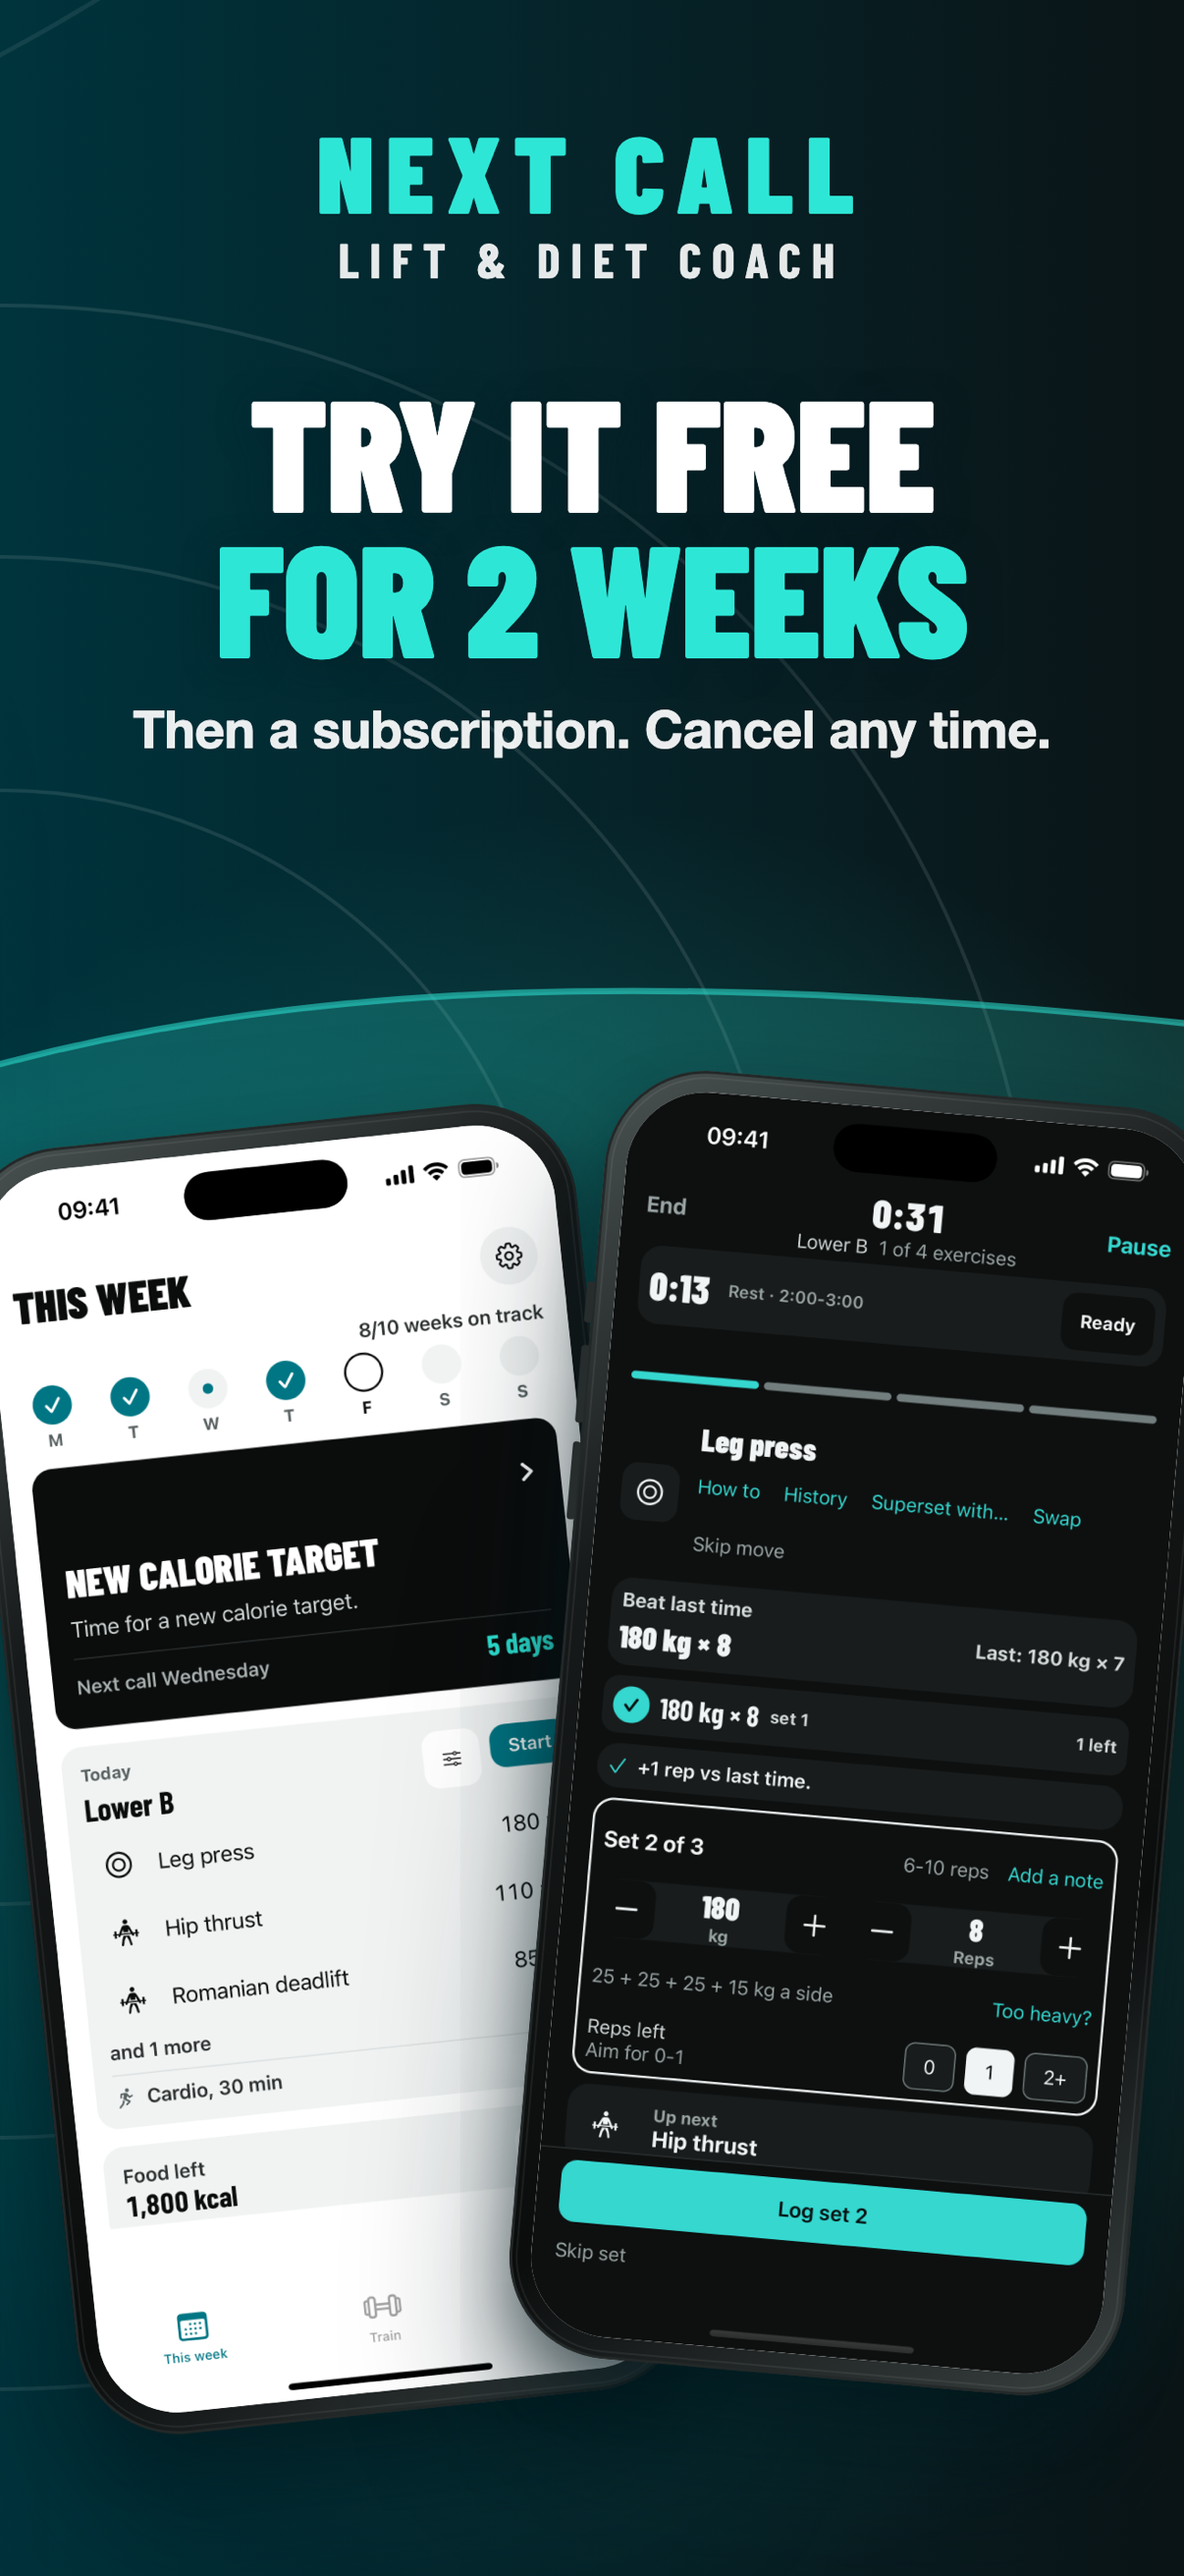
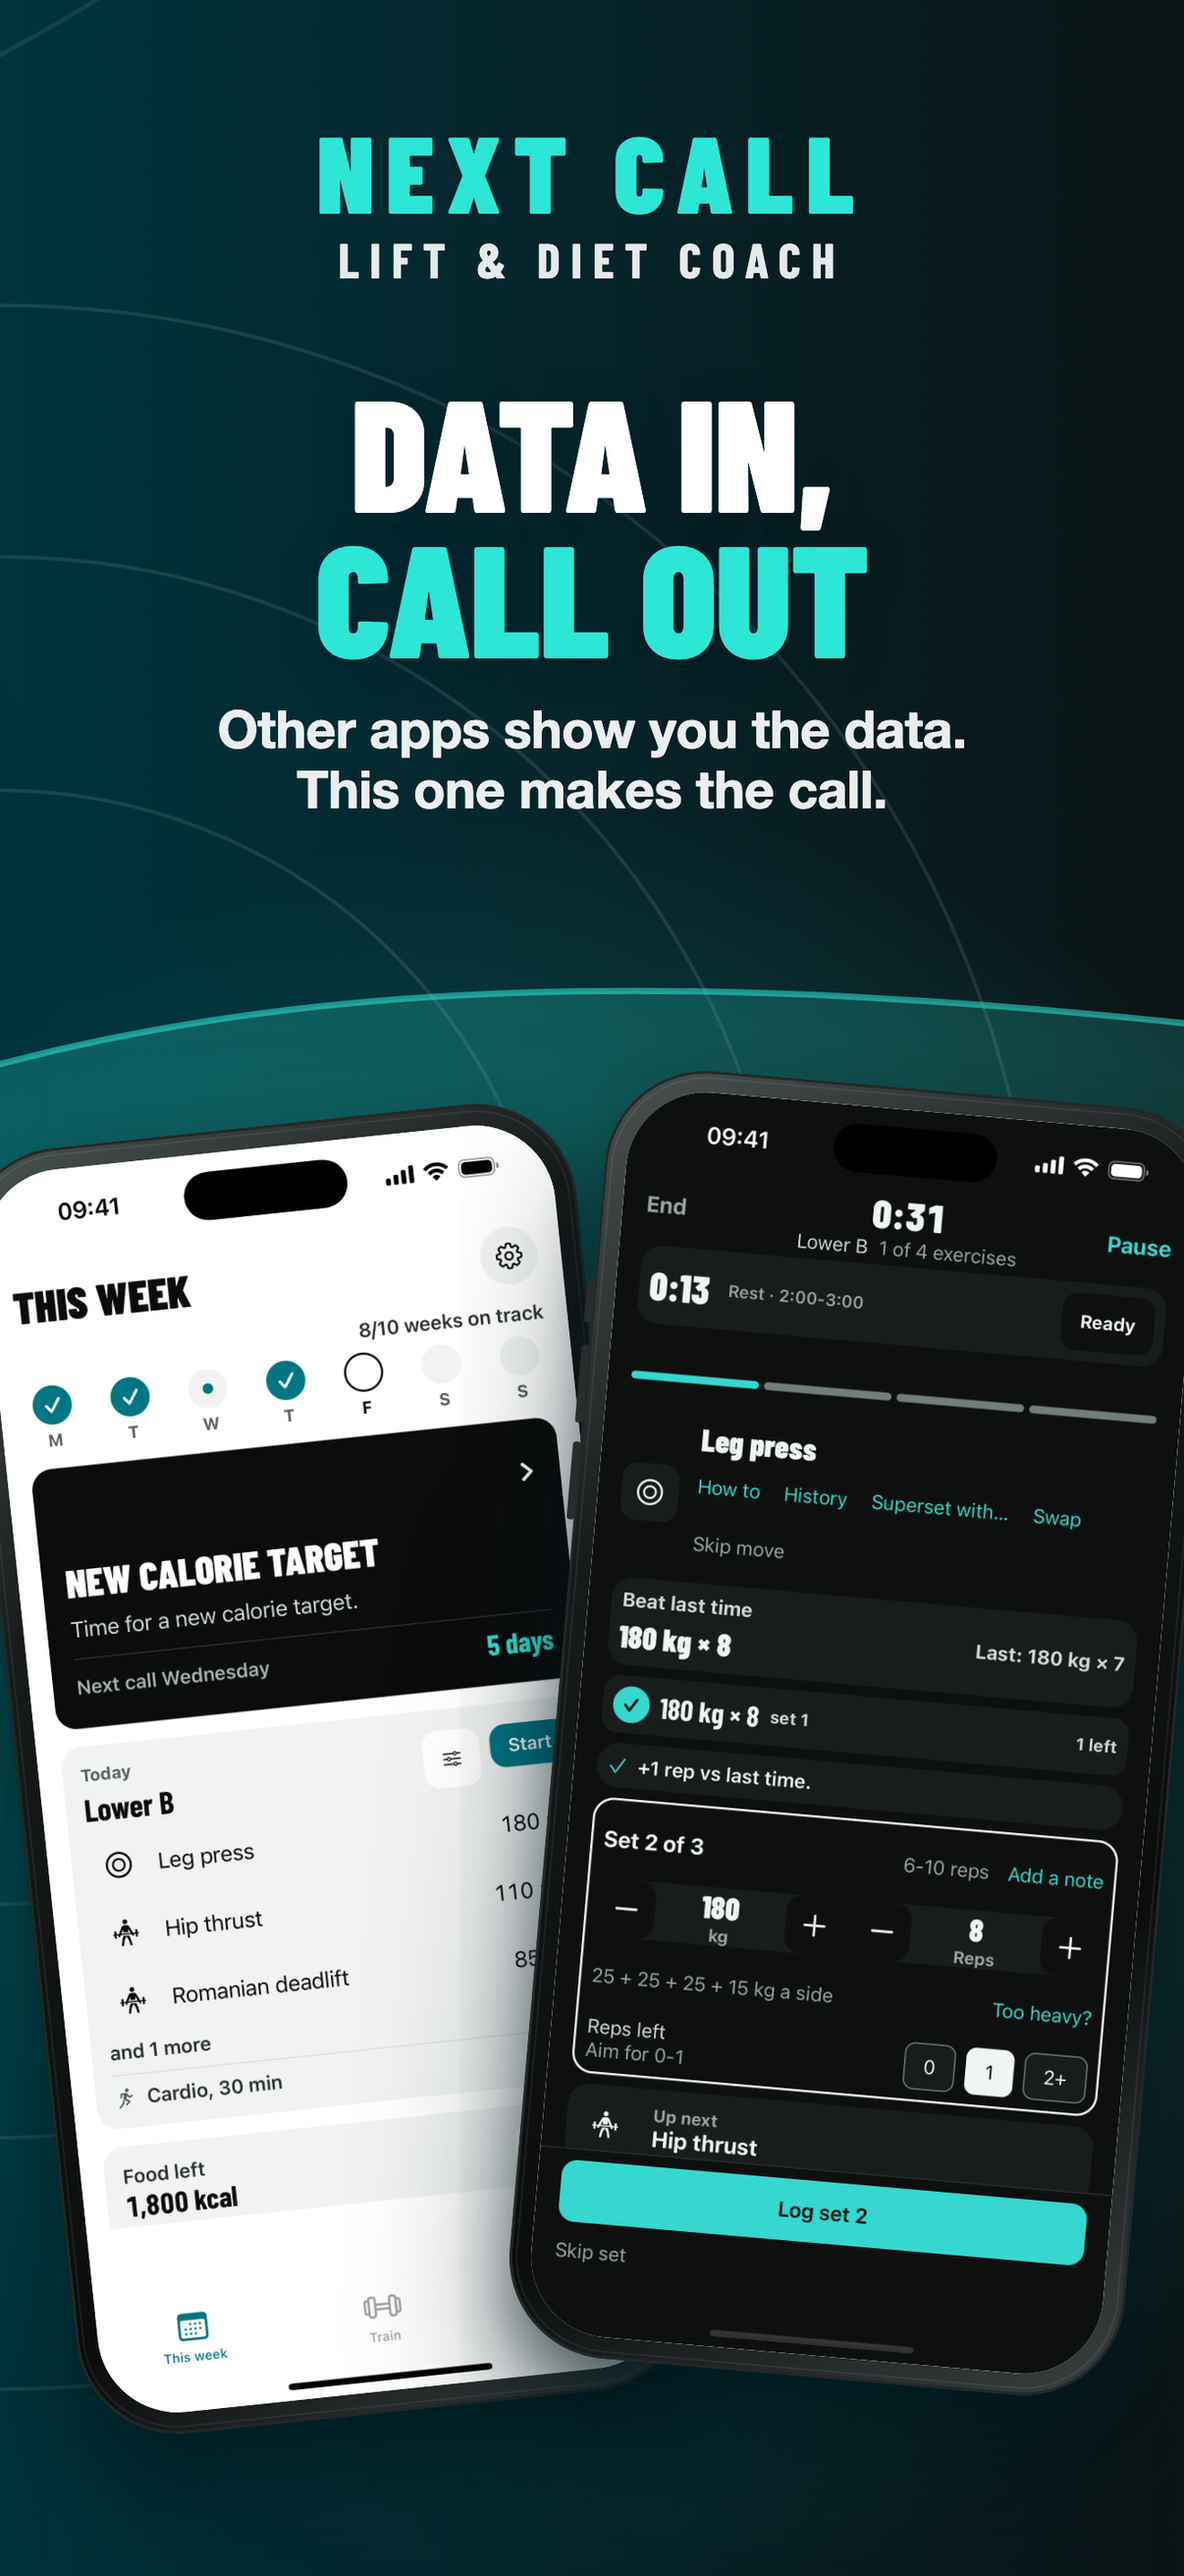
docs(store): frame 6 without a price reference, App Review 2.3.7 (#616)

Changed region(s): [[0.1227, 0.1545, 0.8897, 0.3398]]

diff --git a/docs/magaza/marketing/panorama.html b/docs/magaza/marketing/panorama.html
@@ -93,7 +93,7 @@
 <section class="frame f6">
  <div class="mark" style="top:130px">Next Call</div>
  <div class="mark-sub" style="top:262px">Lift &amp; Diet Coach</div>
- <div class="cap" style="top:420px"><h1>Try it free<br><em>for 2 weeks</em></h1><p>Then a subscription. Cancel any time.</p></div>
+ <div class="cap" style="top:420px"><h1>Data in,<br><em>call out</em></h1><p>Other apps show you the data.<br>This one makes the call.</p></div>
  <div class="phone" style="left:20px;top:1250px;--sw:640px;transform:rotate(-6deg);z-index:1">
   <div class="body"></div><i class="btn b1"></i><i class="btn b2"></i><i class="btn b3"></i><i class="btn b4"></i>
   <div class="screen"><img src="../screenshots/01-this-week.png" alt=""><i class="island"></i></div></div>
